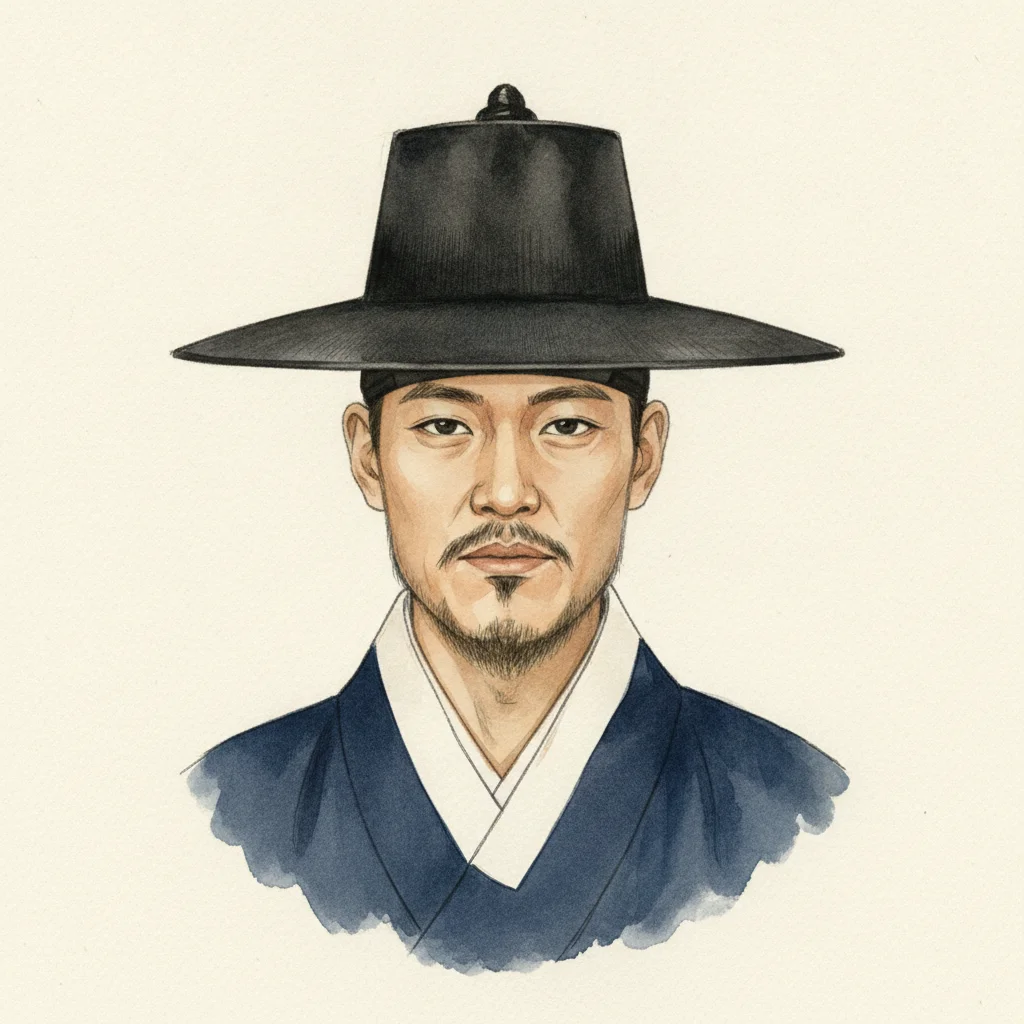
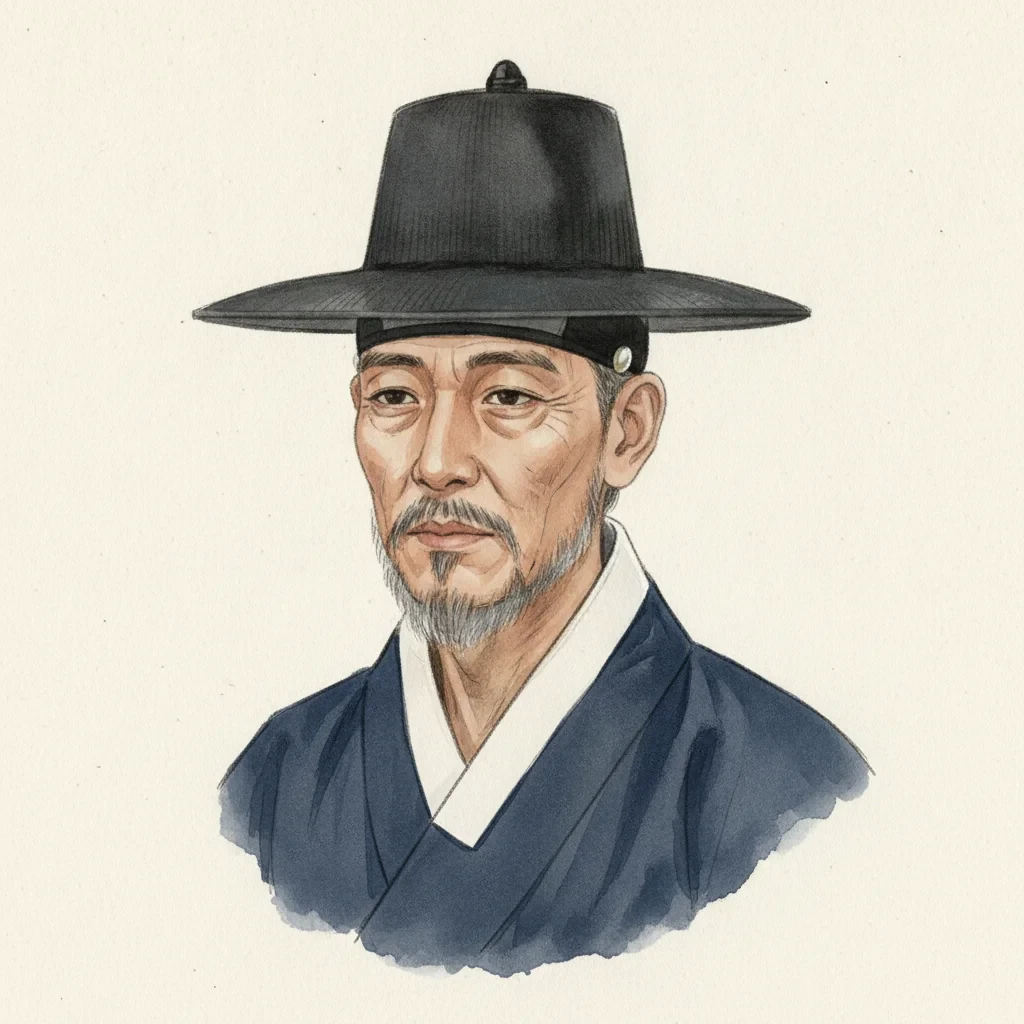
이순신 초상 다시 그림 · 노벨 자료 서로 맞춤
- 이순신 portrait.webp: 전사 시점(50대 초반)에 맞춰 다시 만듦 (흑립·남색 철릭)
- 노벨 02 summary '뇌관 개발' → 본문대로 1863년 점화 장치 특허
- 노벨 01 연표: 폭발 사고 사망자 '다섯 명'(본문과 같게), 다이너마이트 '안전한' → '다루기 쉽게',
  1901년 평화상 시상지는 크리스티아니아(지금의 오슬로)
- 노벨 02 폭발 사고 묘사 덜어냄 (sensitive_topics), 04 경제학상 1968년 명시 (앞머리 지침과 같게)
- tests.yaml: 유언장 분야 문항의 근거 문서를 분야가 실제로 적힌 04 로

Changed region(s): [[0.1562, 0.0625, 0.875, 0.9688]]

diff --git a/figures/alfred-nobel/docs/01-timeline.md b/figures/alfred-nobel/docs/01-timeline.md
@@ -12,10 +12,10 @@ quotable: false
 1842년 가족과 함께 러시아 상트페테르부르크로 이주하여 자연과학과 외국어 교육을 받았다.
 1850년 화학 연구를 위해 파리로 유학하여 아스카니오 소브레로의 니트로글리세린 연구를 접했다.
 1863년 니트로글리세린을 원하는 때에 터뜨리는 장치를 발명하여 스웨덴 특허를 받았다.
-1864년 9월 3일 스톡홀름 헬레네보리 공장에서 폭발 사고가 발생하여 막내동생 에밀 노벨과 직원들이 사망했다.
-1867년 규조토에 니트로글리세린을 흡수시킨 안전한 고체 폭약 '다이너마이트'를 발명하고 특허를 취득했다.
+1864년 9월 3일 스톡홀름 헬레네보리 공장에서 폭발 사고가 발생하여 막내동생 에밀 노벨을 포함한 다섯 명이 사망했다.
+1867년 규조토에 니트로글리세린을 흡수시켜 다루기 쉽게 만든 고체 폭약 '다이너마이트'를 발명하고 특허를 취득했다.
 1875년 한층 강력하고 물에 강한 폭약인 블라스팅 젤라틴(젤리그나이트)을 발명했다.
 1887년 연기가 나지 않는 화약인 발리스타이트(Ballistite)를 발명했다.
 1895년 11월 27일 프랑스 파리에서 재산 대부분을 다섯 분야의 상을 위한 기금으로 남기는 최종 유언장에 서명했다.
 1896년 12월 10일 이탈리아 산레모에서 세상을 떠났다.
-1901년 12월 10일 노벨의 유언에 따라 제1회 노벨상 시상식이 스톡홀름과 오슬로에서 열렸다.
+1901년 12월 10일 노벨의 유언에 따라 제1회 노벨상 시상식이 스톡홀름과 크리스티아니아(지금의 오슬로)에서 열렸다.

diff --git a/figures/alfred-nobel/docs/02-nitroglycerin-and-tragedy.md b/figures/alfred-nobel/docs/02-nitroglycerin-and-tragedy.md
@@ -2,7 +2,7 @@
 doc_id: nobel-nitroglycerin-and-tragedy
 title: "위험한 액체 폭약과 가족을 앗아간 실험실 폭발 사고"
 kind: biography
-summary: 폭약 연구와 뇌관 개발, 1864년 폭발 사고를 다룹니다.
+summary: 니트로글리세린 연구와 1863년 점화 장치 특허, 1864년 폭발 사고를 다룹니다.
 source: "AI 초안 — 교사 검토 전 (NobelPrize.org, 1996년 노벨상 시상식 개회사)"
 source_url: "https://www.nobelprize.org/ceremonies/1996-opening-address"
 quotable: false
@@ -14,6 +14,6 @@ quotable: false
 
 노벨은 니트로글리세린을 필요한 때에 폭발시키는 방법을 연구했다. 1863년 그는 이를 위한 점화 장치를 발명하여 특허를 얻었다.
 
-그러나 연구의 길은 참혹한 비극으로 이어졌다. 1864년 9월, 스톡홀름 헬레네보리에 있던 노벨 가족의 공장에서 끔찍한 폭발 사고가 일어나 공장이 산산조각이 났다. 이 사고로 동생 에밀 노벨을 포함한 다섯 명이 목숨을 잃었다.
+1864년 9월, 스톡홀름 헬레네보리에 있던 노벨 가족의 공장에서 큰 폭발 사고가 일어났다. 이 사고로 동생 에밀 노벨을 포함한 다섯 명이 목숨을 잃었다.
 
 노벨은 사고 뒤에도 연구를 계속했다. 그는 니트로글리세린을 더 다루기 쉬운 형태로 만드는 데 힘을 쏟았다. 그가 사고를 겪으며 마음속으로 어떤 결심을 했는지는 확인된 자료만으로 단정하기 어렵다.

diff --git a/figures/alfred-nobel/docs/04-merchant-of-death-and-will.md b/figures/alfred-nobel/docs/04-merchant-of-death-and-will.md
@@ -12,4 +12,4 @@ quotable: false
 
 1895년 11월 27일 노벨은 파리에서 마지막 유언장에 서명했다. 재산 대부분에서 나오는 돈을 물리학, 화학, 생리의학, 문학, 평화의 다섯 분야에 나누어 상을 주라고 했다. 수상자의 국적에 따라 차별하지 말라는 내용도 적었다.
 
-노벨은 1896년에 세상을 떠났고, 첫 노벨상은 1901년에 수여되었다. 오늘날의 경제학상은 노벨의 유언장에 들어 있지 않다. 그 상은 훗날 스웨덴 중앙은행이 노벨을 기리며 마련했다.
+노벨은 1896년에 세상을 떠났고, 첫 노벨상은 1901년에 수여되었다. 오늘날의 경제학상은 노벨의 유언장에 들어 있지 않다. 그 상은 1968년 스웨덴 중앙은행이 노벨을 기리며 따로 마련했다.
